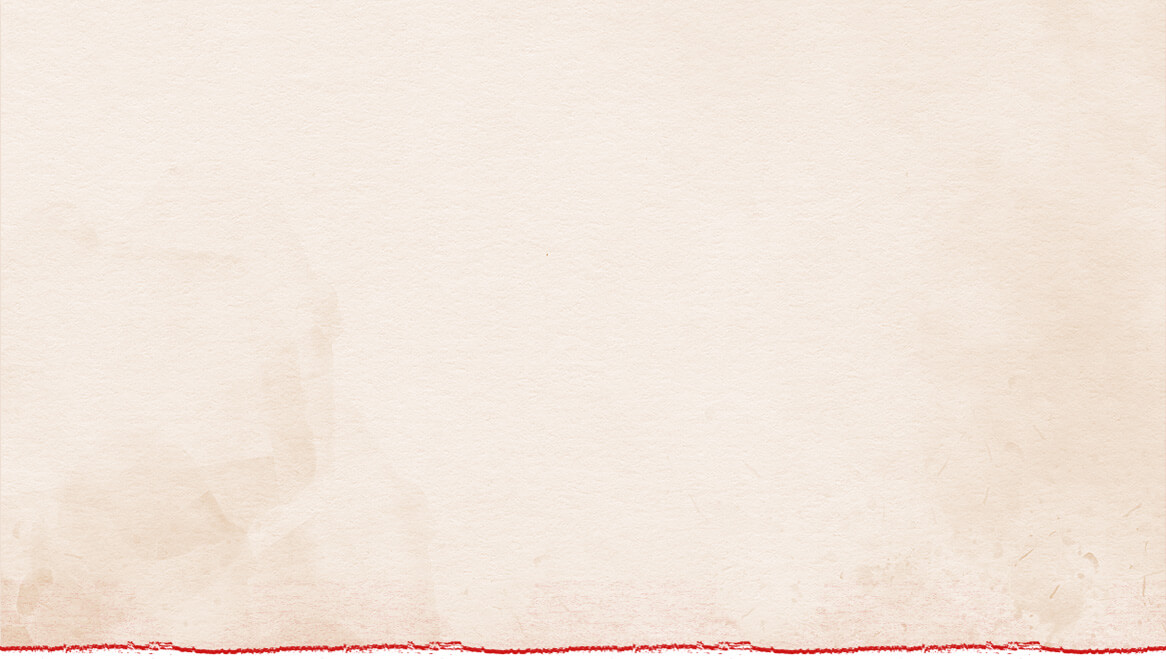
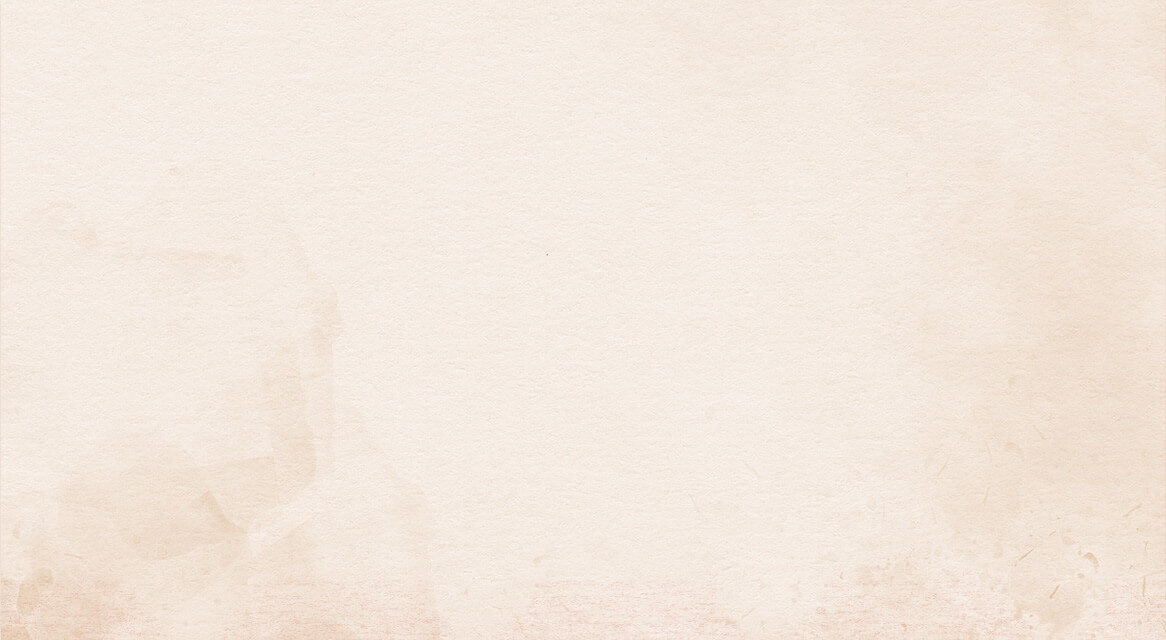
blockcode sec fix

Changed region(s): [[0.0, 0.9688, 1.0, 1.0], [0.9262, 0.8438, 0.9571, 0.875], [0.0, 0.875, 0.0309, 0.9062]]

diff --git a/style.css b/style.css
@@ -565,6 +565,17 @@ span.fl-txt-line-bg {
     background-position: center center !important;
     background-size: cover !important;
     padding-bottom: 15px;
+    position: relative;
+}
+.top-wave-img {
+    position: absolute;
+    left: 0;
+    right: 0;
+    bottom:0;
+    z-index: 1;
+    height: 20px;
+    background: center bottom;
+    background-repeat: repeat-x!important;
 }
 .fl-linked-low-head {
     background-repeat: no-repeat !important;
@@ -737,6 +748,7 @@ span.fl-txt-line-bg {
     background-size: cover !important;
     background-position: center center !important;
     padding-bottom: 45px;
+    position: relative;
 }
 .fl-blockquote-head{
     background-repeat: no-repeat !important;

diff --git a/index.html b/index.html
@@ -286,6 +286,7 @@
 
 
 <section class="fl-linked-low-sec lazy" data-src="assets/images/fl-linked-low-sec-bg.jpg">
+  <span class="top-wave-img lazy" data-src="assets/images/fl-linked-low-sec-btm-bg.jpg"></span>
     <div class="container">
       <div class="row">
         <div class="col-sm-12">
